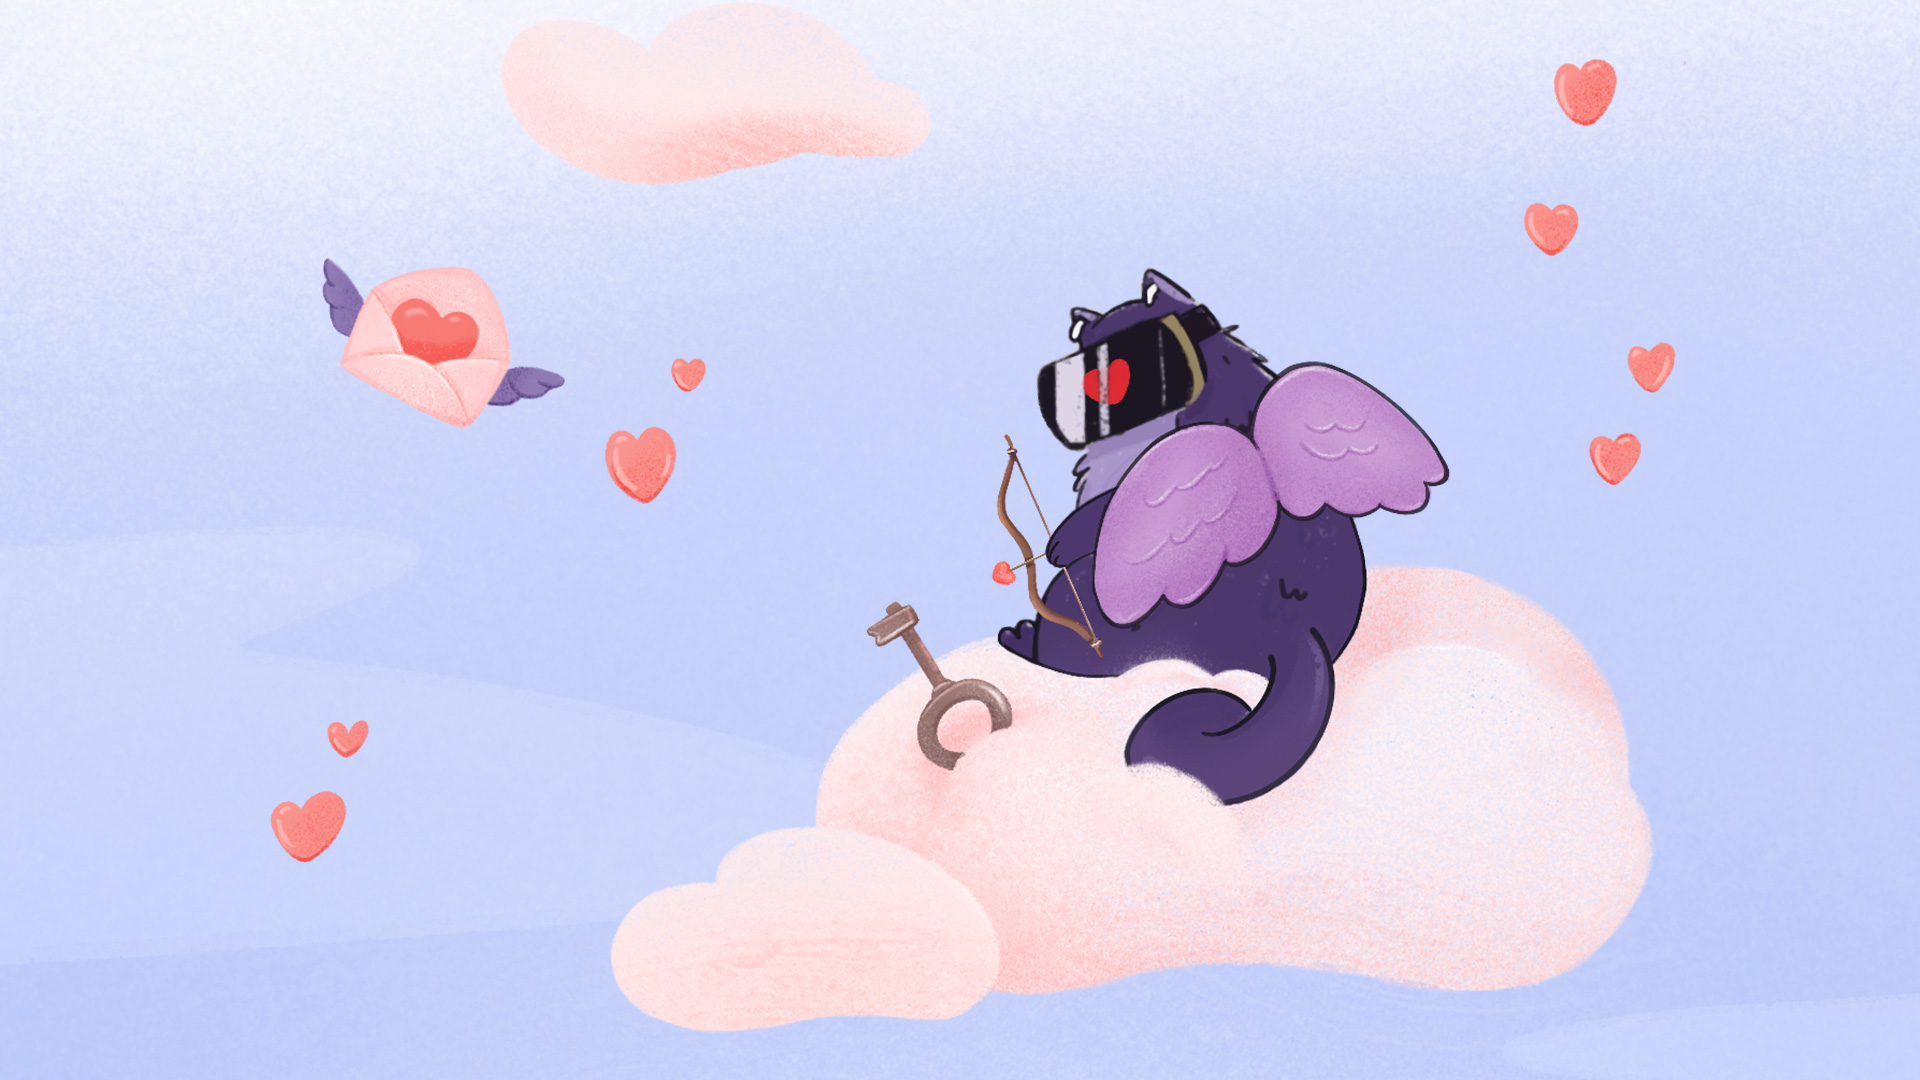
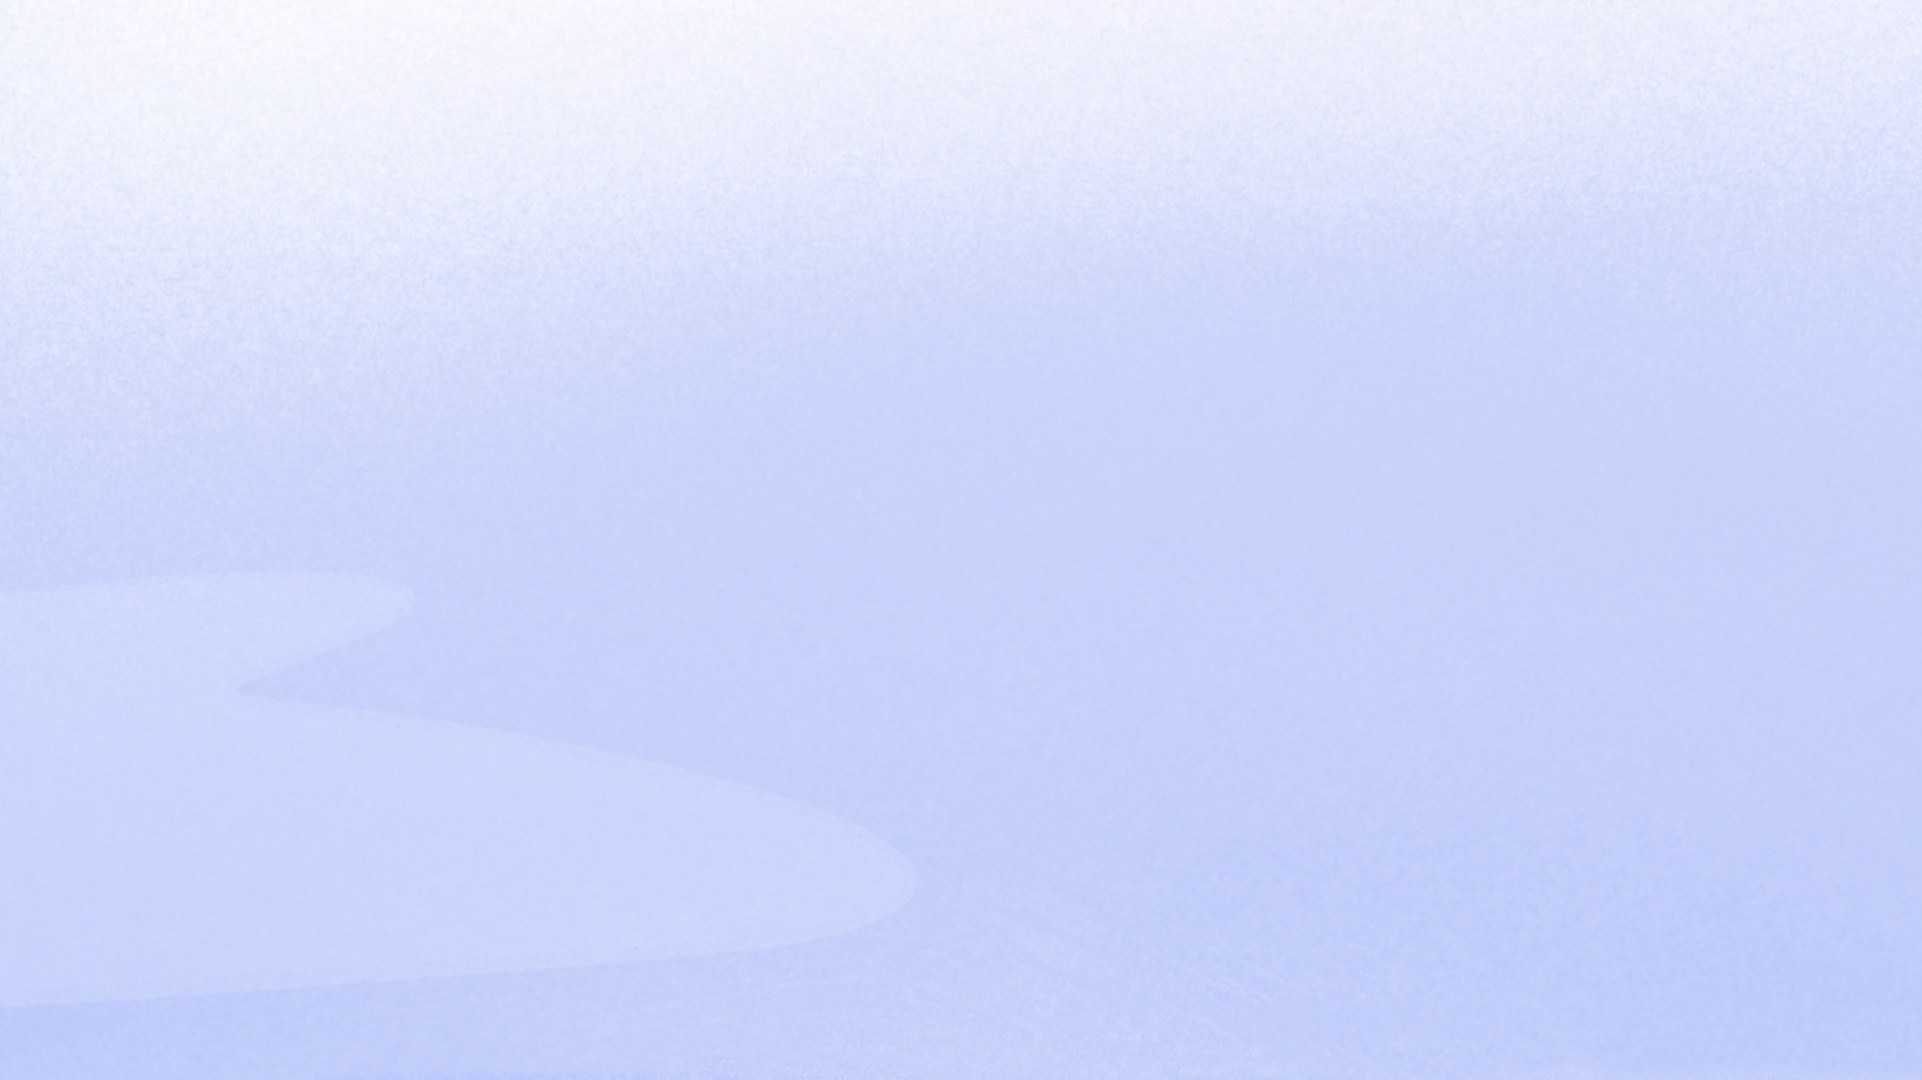
up

diff --git a/intergalbud/legend-page/index.html b/intergalbud/legend-page/index.html
@@ -38,6 +38,7 @@
             </div>
             <div class="button">Взяти участь у розіграші</div>
         </div>
+        <img class="absolute catimg" src="img/cat1.png">
         <img class="bg-img" src="img/scr1.jpg">
     </div>
 </header>
@@ -48,13 +49,14 @@
         <img class="absolute heart heart3 heart-animation3" src="img/anim/heart.png">
         <img class="absolute heart heart4 heart-animation4" src="img/anim/heart.png">
         <img class="absolute cloud cloud-animation" src="img/anim/cloud.png">
-        <h2 class="wow up-animation">Помічник святого Валентина — котик Румідон</h2>
         <div class="absolute scr2-block wow right-animation">
+                <h2>Помічник святого Валентина — котик Румідон</h2>
                 <div class="text">У лютому котик Румі перетворюється на Румідона —  помічника святого Валентина.
                     Завдяки своїм особливим VR-окулярам та зарядженим на романтику стрілам, він поєднує закохані серця та дарує їм цінні подарунки. 
                     Тож гортайте далі та дізнавайтеся, де живе ваше кохання! А ще не проґавте шанс отримати 1 м² у подарунок!                        
                 </div>
         </div>
+        <img class="absolute catimg" src="img/cat2.png">
         <img class="bg-img" src="img/scr2.jpg">
     </div>
     <div class="scr3">
@@ -68,6 +70,7 @@
             <div class="button">Передбачення</div>
             <div class="share-button">Share!</div>
         </div>
+        <img class="absolute catimg" src="img/cat3.png">
         <img class="bg-img" src="img/scr3.jpg">
     </div>
     <div class="scr4">
@@ -84,6 +87,7 @@
                 <button class="button">Взяти участь</button>
             </form>
         </div>
+        <img class="absolute catimg" src="img/cat4.png">
         <img class="bg-img" src="img/scr4.jpg">
     </div>
 </main>

diff --git a/intergalbud/legend-page/css/n-main.css b/intergalbud/legend-page/css/n-main.css
@@ -135,7 +135,7 @@ input, button {
     cursor: pointer;
     border: 2px solid #e3262d;
 }
-.scr1-block, .scr2-block, .scr3-block, .scr4-block, h2, .scr5-block {
+.scr1-block, .scr2-block, .scr3-block, .scr4-block, .scr5-block {
     max-width: 1400px;
     padding: 0 10px;
     width: 100%;
@@ -145,16 +145,16 @@ input, button {
     -ms-transform: translate(50%, 0);
     -o-transform: translate(50%, 0);
     transform: translate(-50%, 0);
-    z-index: 1;
+    z-index: 3;
 }
 .scr1-block {
     top: 18%;
 }
 .scr2-block {
-    top: 40%;
+    top: 10%;
 }
 .scr3-block {
-    top: 40%;
+    top: 20%;
 }
 .scr4-block {
     bottom: 20%;
@@ -166,17 +166,21 @@ input, button {
     max-width: 800px;
     color: #fff;
 }
-h1 {
+h1, h2 {
     max-width: 600px;
     font-size: 60px;
     margin-bottom: 20px;
     top: 0;
 }
 h2 {
+    text-align: right;
+    float: right;
+}
+/* h2 {
     position: absolute;
     font-size: 60px;
     text-align: center;
-}
+} */
 h3 {
     font-size: 60px;
     margin-bottom: 30px;
@@ -209,17 +213,14 @@ input::placeholder {
 .active-border {
     border: 2px solid #e3262d;
 }
-.scr3 .text {
-    padding: 20px;
-}
 .share-button {
     display: inline-block;
     font-size: 18px;
     padding: 13px 20px;
-    border: 2px solid #e3262d;
+    border: 2px solid #fff;
     margin-left: 20px;
     border-radius: 5px;
-    color: #e3262d;
+    color: #fff;
     cursor: pointer;
 }
 /* .button2 {
@@ -249,6 +250,25 @@ input::placeholder {
 .social-block a {
     margin: 0 10px;
 }
+.catimg {
+    width: 100%;
+    z-index: 2;
+}
+.scr1 .catimg {
+    right: 5%;
+    max-width: 1300px;
+    top: 0;
+}
+.scr3 .catimg {
+    top: 5%;
+    right: 10%;
+    max-width: 1000px;
+}
+.scr4 .catimg {
+    max-width: 600px;
+    right: 15%;
+    bottom: 15%;
+} 
 /* ------------------------------------------------------ */
   
 #ink-cursor {
@@ -319,9 +339,9 @@ input::placeholder {
 .scr1-block, .scr2-block, .scr3-block, .scr4-block, .scr5-block {
     animation-duration: 1.5s;
 }
-h2 {
+/* h2 {
     animation-duration: 1s;
-}
+} */
 .heart-animation {
     animation-duration: 12s;
     animation-iteration-count:infinite;
